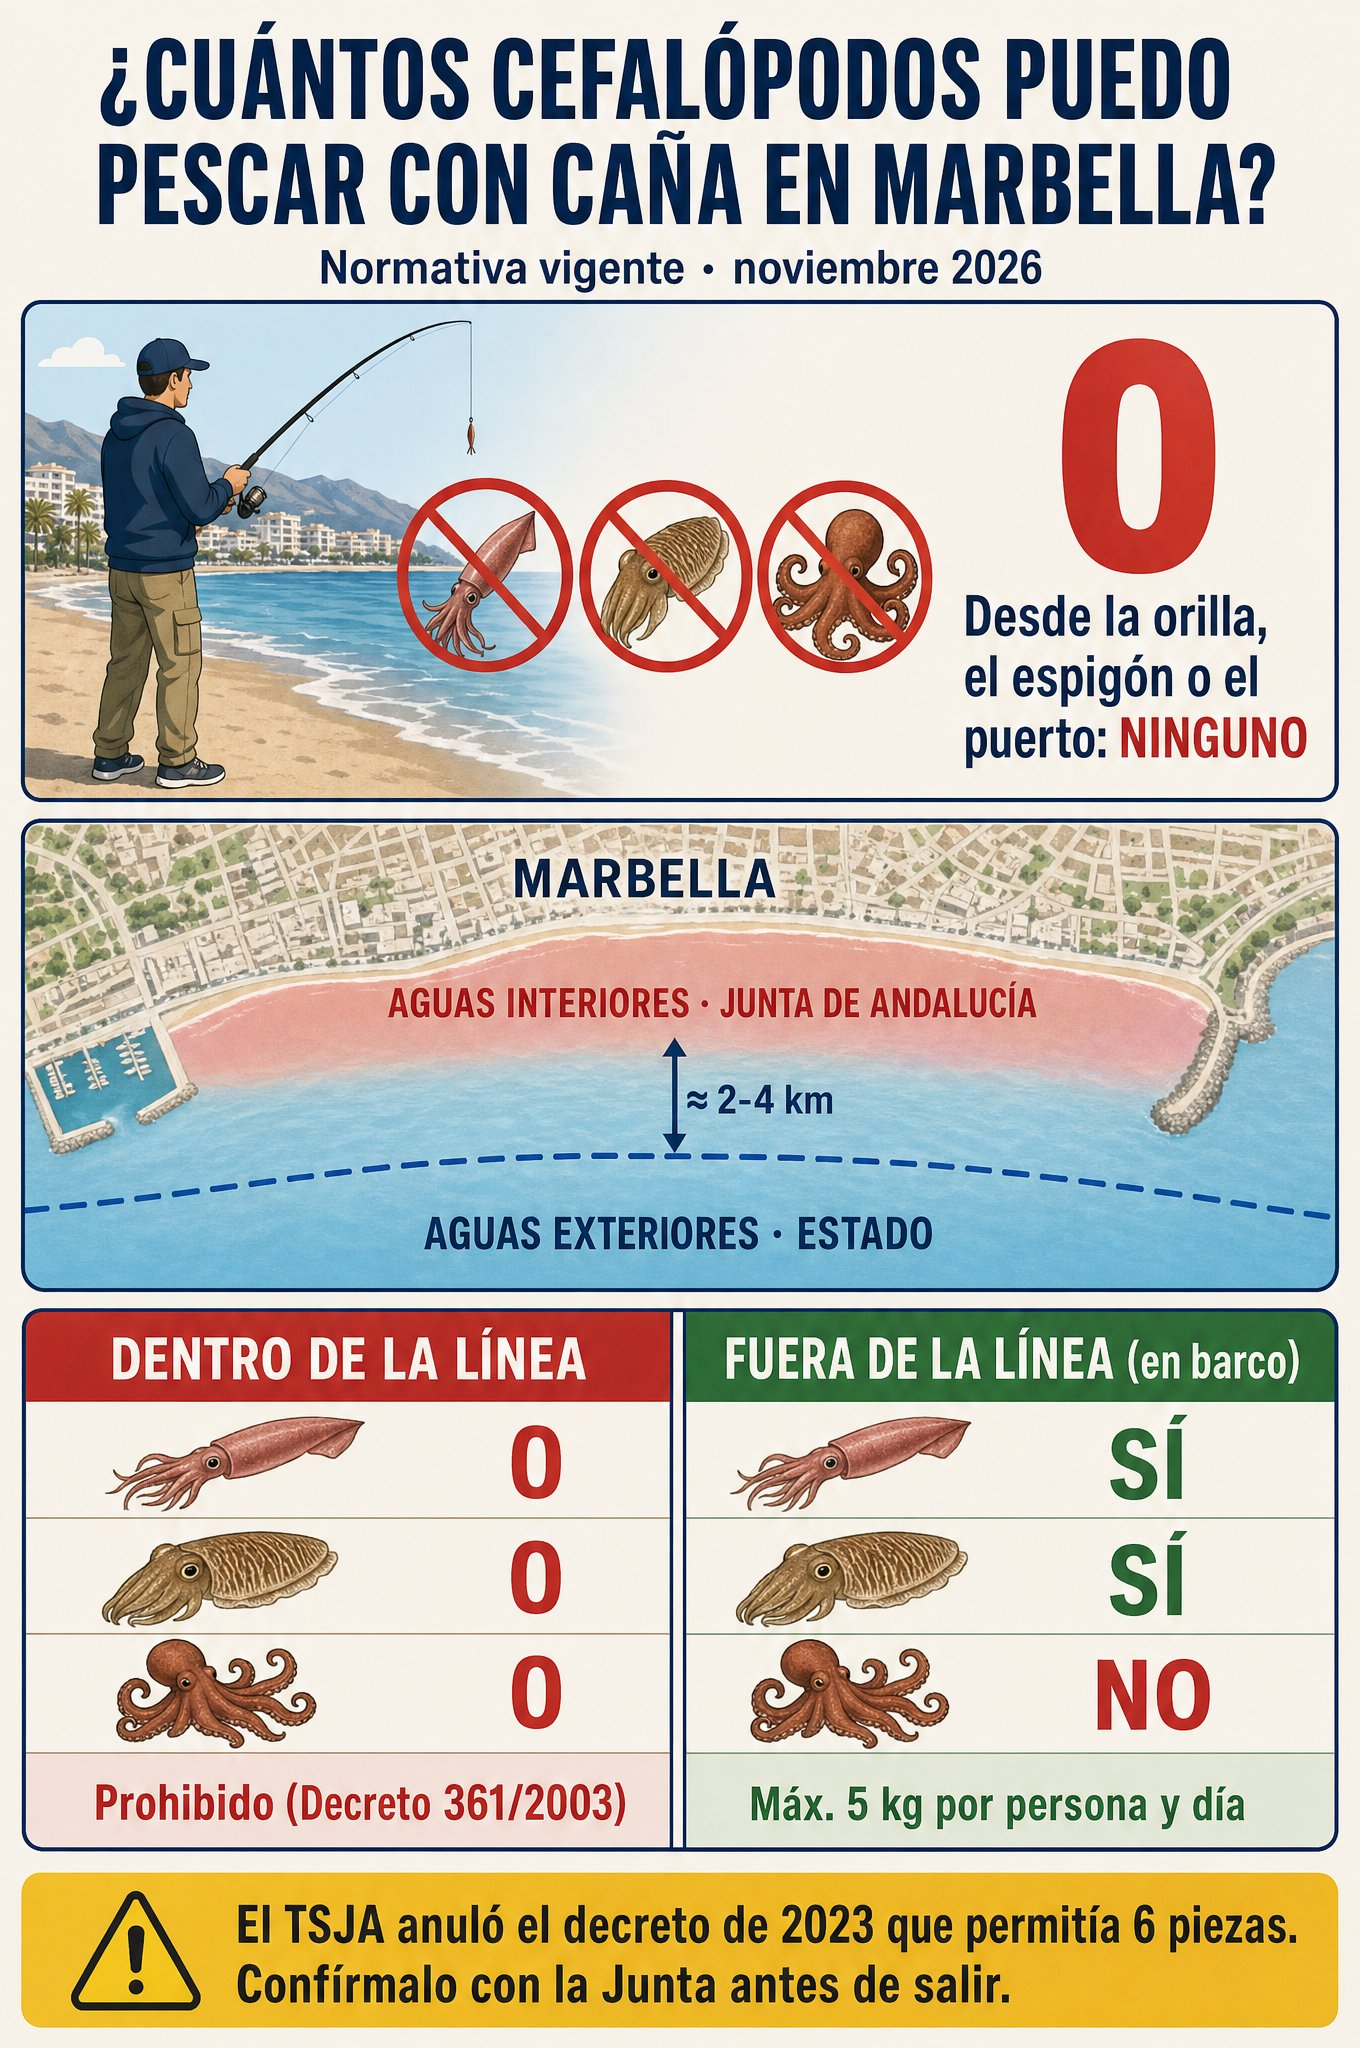
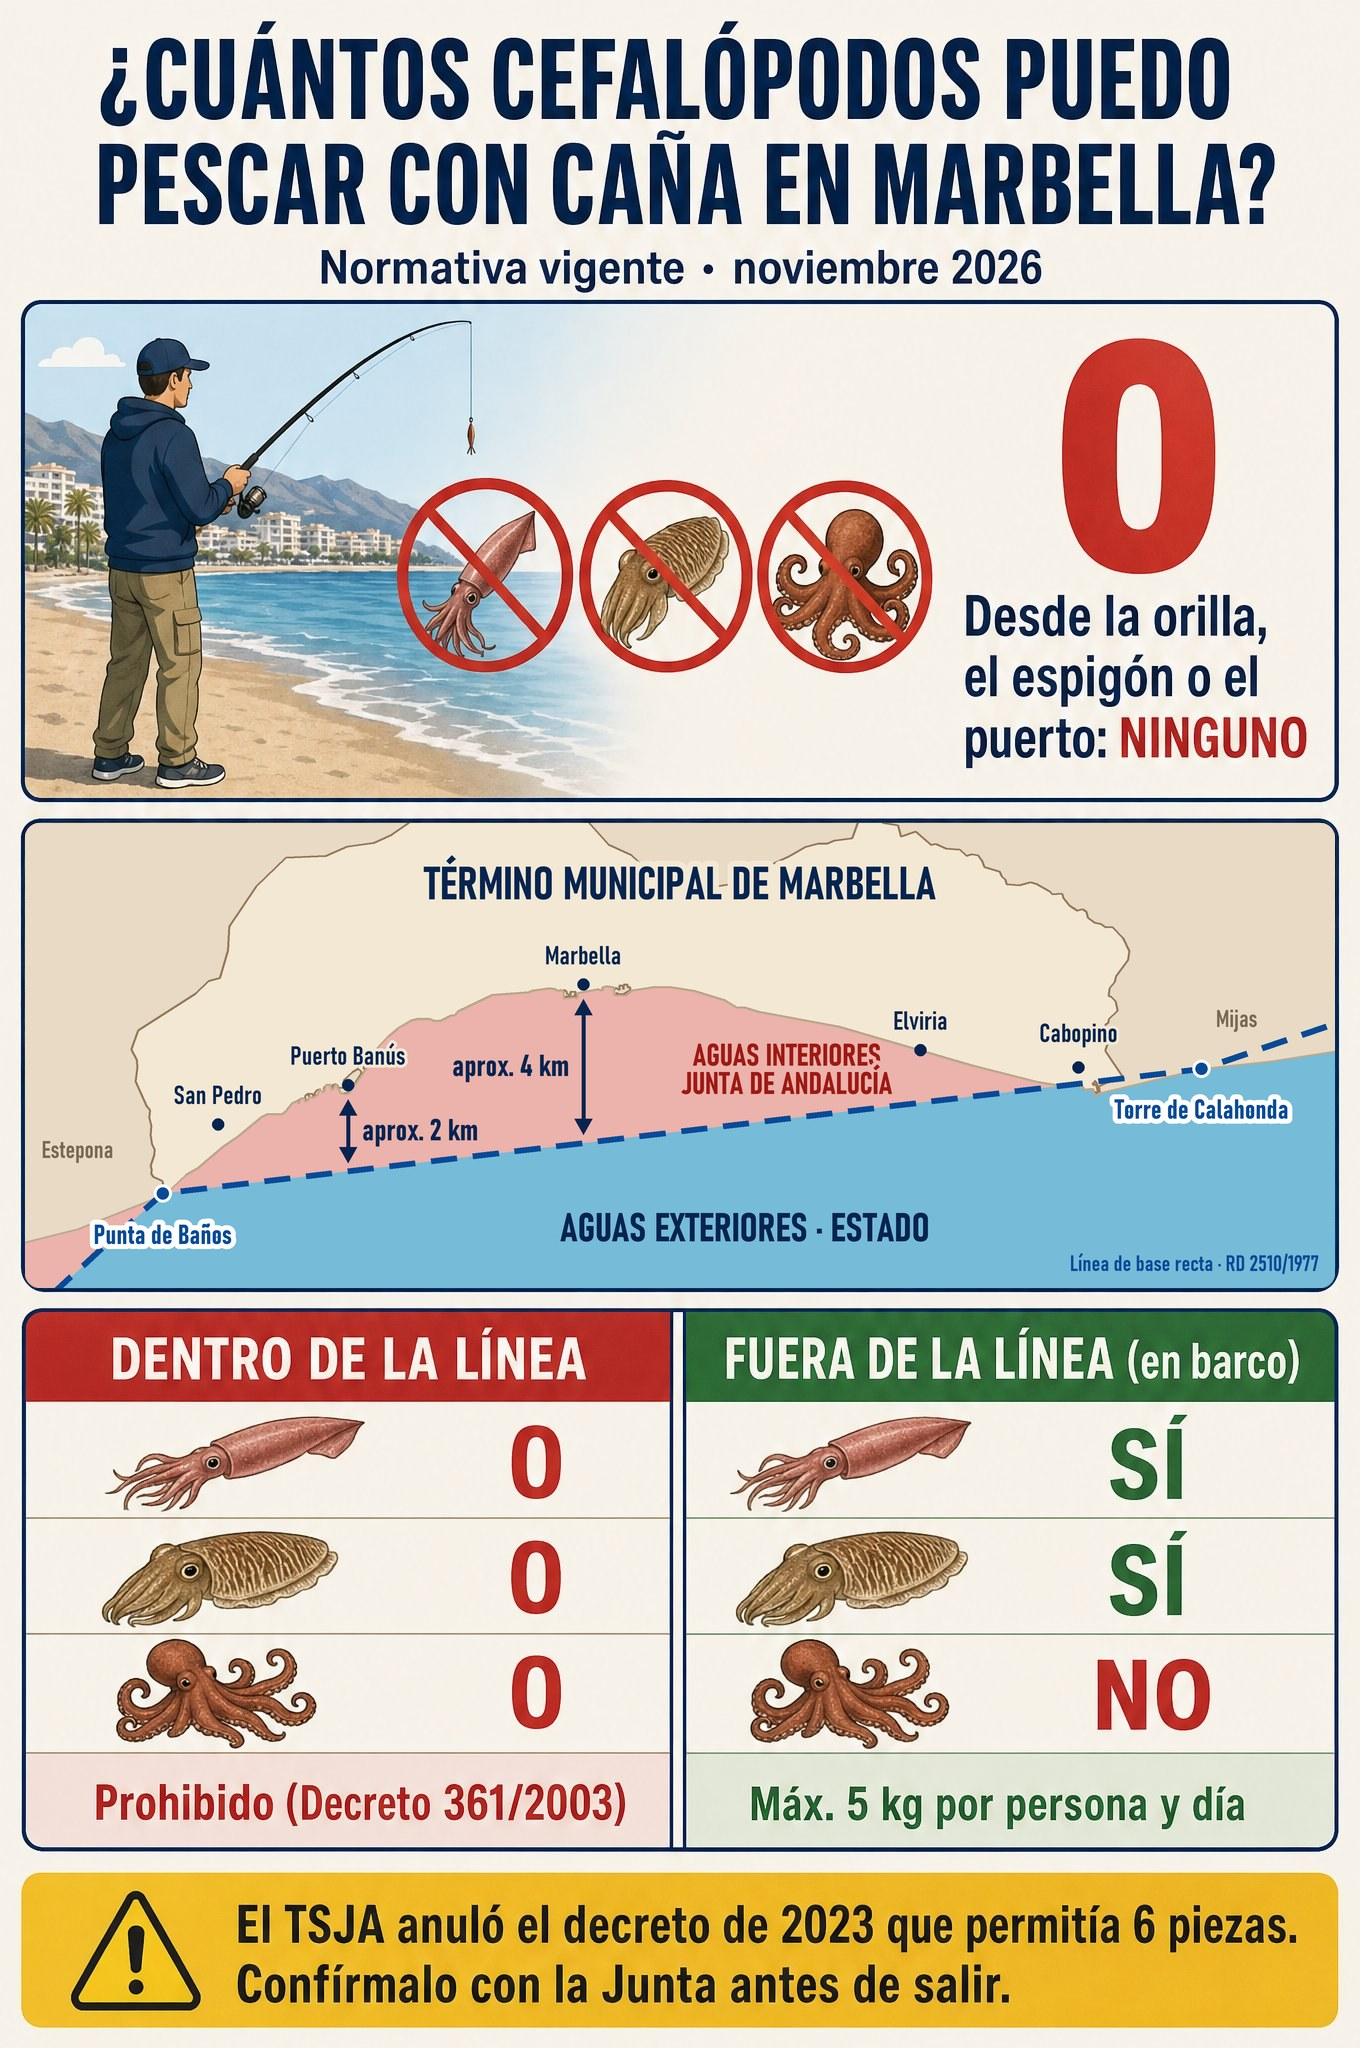
Infografía: mapa real del término de Marbella con la línea de base del RD 2510/1977

Changed region(s): [[0.0, 0.375, 0.9882, 0.625]]

diff --git a/fuente/mapa.py b/fuente/mapa.py
@@ -1,0 +1,91 @@
+# Sustituye el mapa de la infografía por uno real: término de Marbella + línea de base recta (RD 2510/1977)
+import json, math
+from PIL import Image, ImageDraw, ImageFont, ImageFilter
+D='C:/Users/josem/dev/cefalopodos-marbella/'
+S=3                                  # supermuestreo
+X0,Y0,X1,Y1=25,823,1335,1288         # interior del recuadro del mapa
+W,H=(X1-X0)*S,(Y1-Y0)*S
+lon0,lon1=-5.045,-4.672
+k=math.cos(math.radians(36.48))
+lat_span=(lon1-lon0)*k*H/W
+lat1=36.545; lat0=lat1-lat_span
+px=lambda lo,la:((lo-lon0)/(lon1-lon0)*W,(lat1-la)/(lat1-lat0)*H)
+NAVY=(7,36,80); RED=(158,25,20); PINK=(236,178,172); SEA=(118,187,216); LINE=(8,74,152)
+LAND=(232,218,196); LAND_MB=(242,232,212); EDGE=(190,170,140)
+F='C:/Windows/Fonts/bahnschrift.ttf'
+def font(sz,var=b'Bold Condensed'):
+    f=ImageFont.truetype(F,sz*S)
+    try: f.set_variation_by_name(var)
+    except Exception: pass
+    return f
+ring=json.load(open(D+'fuente/termino.geojson',encoding='utf-8')); ring=(ring['features'][0] if 'features' in ring else ring)['geometry']['coordinates'][0]
+# línea de base recta (BOE): Pta. Carbonera, Pta. de Baños, Torre de Calahonda, Pta. Calaburras
+carb=(-5.30,36.245); banos=(-5.0058,36.4602); calah=(-4.71,36.4887); calab=(-4.6383,36.5083)
+def at(a,b,lo): return a[1]+(lo-a[0])/(b[0]-a[0])*(b[1]-a[1])
+base=[(lon0-0.01,at(carb,banos,lon0-0.01)),banos,calah,calab]
+# costa de Marbella = puntos del término sin ningún otro borde del término al sur
+def crossings(p):
+    n=0
+    for a,b in zip(ring,ring[1:]):
+        if a==p or b==p: continue
+        if (a[0]-p[0])*(b[0]-p[0])<0:
+            y=a[1]+(p[0]-a[0])/(b[0]-a[0])*(b[1]-a[1])
+            if y<p[1]: n+=1
+    return n
+coast=sorted({tuple(p) for p in ring if crossings(p)==0 and p[1]<36.52 and -5.0050<=p[0]<=-4.7389})
+wc=[(lon0-0.01,36.447),(-5.03,36.452)]
+ec=[(-4.71,36.4887),(-4.69,36.4905),(lon1+0.01,36.494)]
+full=wc+coast+ec
+img=Image.new('RGB',(W,H),SEA); d=ImageDraw.Draw(img)
+# aguas interiores: todo lo que queda por encima de la línea de base
+d.polygon([px(*p) for p in base]+[px(lon1+0.01,at(calah,calab,lon1+0.01)),px(lon1+0.01,lat1+0.05),px(lon0-0.01,lat1+0.05)],fill=PINK)
+# tierra
+d.polygon([px(*p) for p in full]+[px(lon1+0.01,lat1+0.05),px(lon0-0.01,lat1+0.05)],fill=LAND)
+d.polygon([px(*p) for p in ring],fill=LAND_MB,outline=EDGE)
+d.line([px(*p) for p in ring],fill=(150,120,90),width=2*S)
+d.line([px(*p) for p in full],fill=EDGE,width=2*S)
+# línea de base discontinua
+def dashed(pts,dash=26*S,gap=16*S,w=6*S):
+    acc=0;on=True
+    for (ax,ay),(bx,by) in zip(pts,pts[1:]):
+        L=math.hypot(bx-ax,by-ay);t=0
+        while t<L:
+            step=min((dash if on else gap)-acc,L-t)
+            if on: d.line([(ax+(bx-ax)*t/L,ay+(by-ay)*t/L),(ax+(bx-ax)*(t+step)/L,ay+(by-ay)*(t+step)/L)],fill=LINE,width=w)
+            t+=step;acc+=step
+            if acc>=(dash if on else gap): acc=0;on=not on
+dashed([px(*p) for p in base])
+def text(xy,s,f,fill,anchor='mm',stroke=0,sf=None):
+    d.text(xy,s,font=f,fill=fill,anchor=anchor,stroke_width=stroke*S,stroke_fill=sf)
+# extremos de la línea
+for n,p,dx,dy,an in [('Punta de Baños',banos,0,30,'mt'),('Torre de Calahonda',calah,0,30,'mt')]:
+    x,y=px(*p); r=9*S; d.ellipse([x-r,y-r,x+r,y+r],fill=LINE,outline='white',width=3*S)
+    text((x+dx*S,y+dy*S),n,font(27),LINE,an,5,(255,255,255))
+# localidades
+f=font(26,b'SemiBold Condensed')
+for n,lo,la,an,dx,dy in [('San Pedro',-4.99,36.476,'mb',0,-20),('Puerto Banús',-4.953,36.485,'mb',0,-20),('Marbella',-4.886,36.508,'mb',0,-20),('Elviria',-4.79,36.493,'mb',0,-20),('Cabopino',-4.745,36.489,'mb',0,-20)]:
+    x,y=px(lo,la); r=6*S; d.ellipse([x-r,y-r,x+r,y+r],fill=NAVY)
+    text((x+dx*S,y+dy*S),n,f,NAVY,an,3,LAND_MB)
+text((W*0.5,32*S),'TÉRMINO MUNICIPAL DE MARBELLA',font(46),NAVY,'mt',6,LAND_MB)
+# cotas: puerto de Marbella y Puerto Banús
+for lo,la,lab,lado in [(-4.886,36.5065,'aprox. 4 km',-1),(-4.953,36.4835,'aprox. 2 km',1)]:
+    x,y1=px(lo,la); _,y2=px(lo,at(banos,calah,lo))
+    d.line([(x,y1+12*S),(x,y2-12*S)],fill=NAVY,width=4*S)
+    for yy,sg in [(y1+8*S,1),(y2-8*S,-1)]:
+        d.polygon([(x,yy),(x-9*S,yy+16*S*sg),(x+9*S,yy+16*S*sg)],fill=NAVY)
+    text((x+14*S*lado,(y1+y2)/2),lab,font(30),NAVY,'lm' if lado>0 else 'rm',4,PINK)
+# rótulos de zonas
+text(px(-4.828,36.4915),'AGUAS INTERIORES',font(31),RED,'mm',4,PINK)
+text(px(-4.828,36.4850),'JUNTA DE ANDALUCÍA',font(31),RED,'mm',4,PINK)
+text(px(-5.03,36.47),'Estepona',font(24,b'SemiBold Condensed'),(120,105,85),'mm')
+text(px(-4.70,36.50),'Mijas',font(24,b'SemiBold Condensed'),(120,105,85),'mm')
+text(px(-4.84,36.452)[0:1]+(px(0,36.452)[1],),'AGUAS EXTERIORES · ESTADO',font(40),NAVY,'mm')
+text((W-16*S,H-14*S),'Línea de base recta · RD 2510/1977',font(22,b'SemiBold Condensed'),LINE,'rb')
+mapa=img.resize((X1-X0,Y1-Y0),Image.LANCZOS)
+base_img=Image.open(D+'fuente/infografia_original.jpg').convert('RGB')
+mask=Image.new('L',(W,H),0); ImageDraw.Draw(mask).rounded_rectangle([0,0,W-1,H-1],radius=14*S,fill=255)
+mask=mask.resize(mapa.size,Image.LANCZOS)
+base_img.paste(mapa,(X0,Y0),mask)
+base_img.save(D+'infografia.jpg',quality=88,optimize=True)
+base_img.crop((0,790,1360,1320)).save(D+'../_tmp_cef/nuevo_mapa.png')
+print('ok', lat0, lat1)
